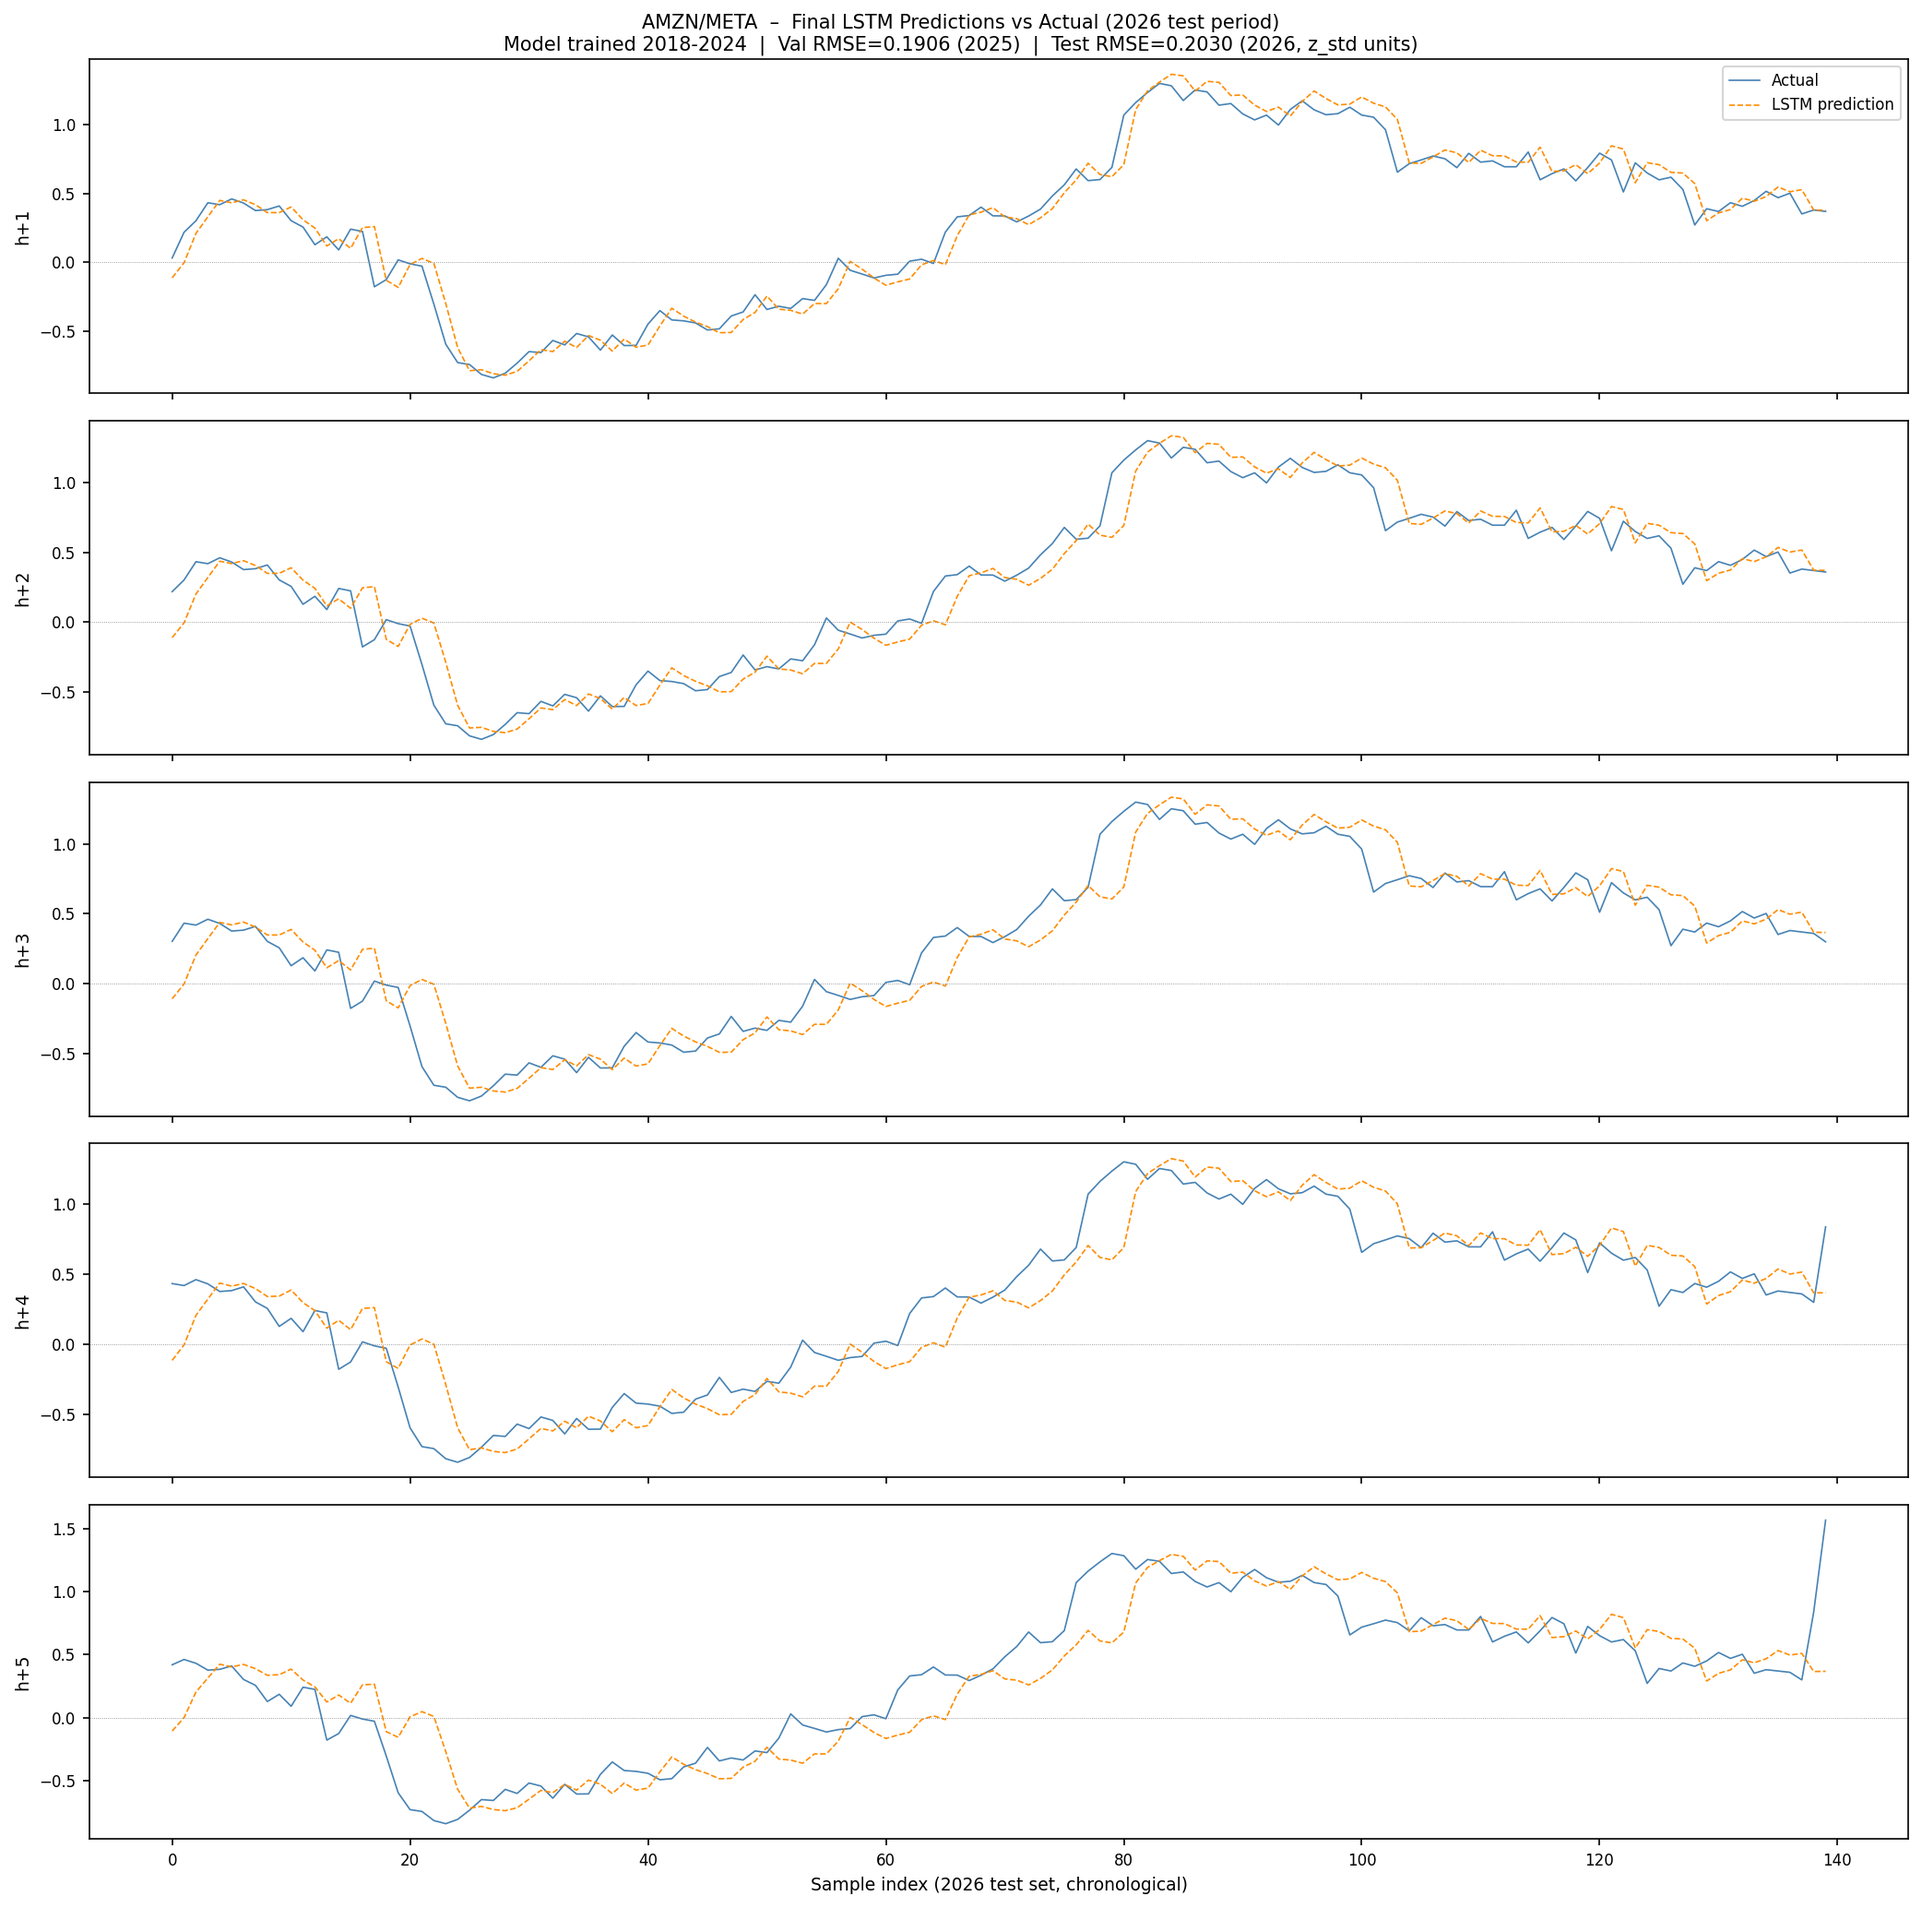
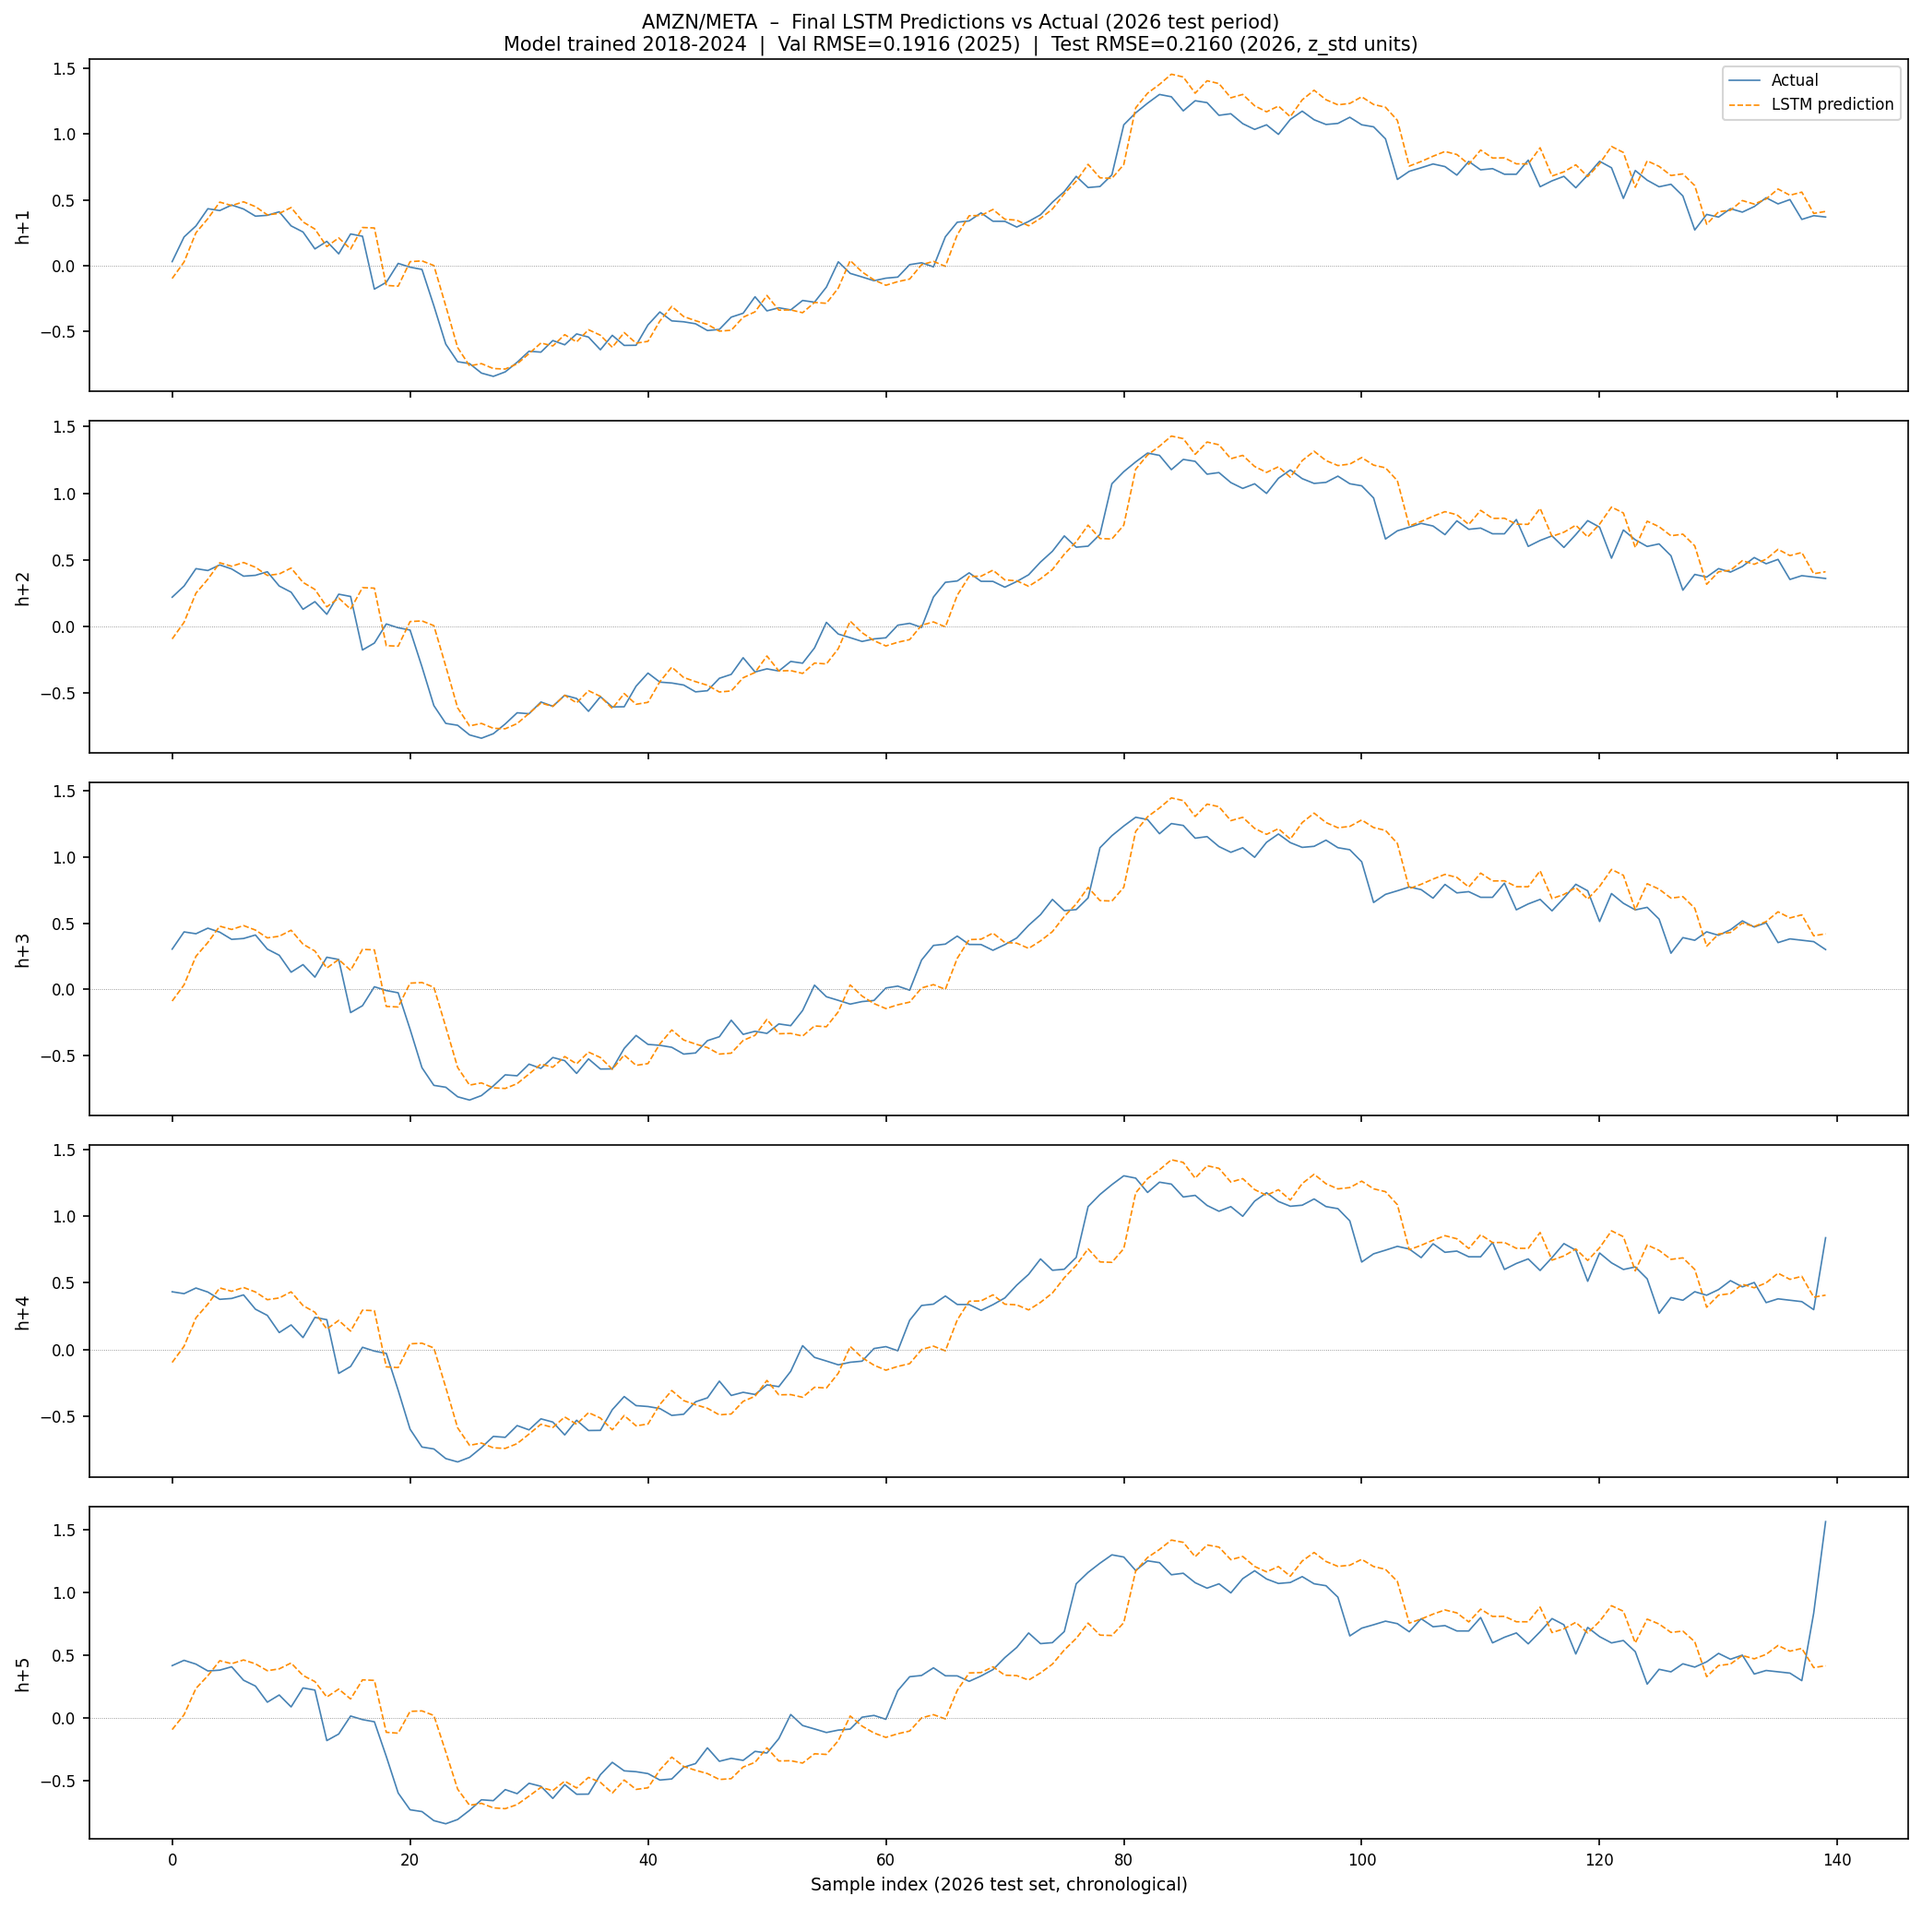
Pre-Task-3 checks: verify persistence units, add TF determinism
Check 2: X[:, -1, 0] and y are both z_std — same units, no fix needed.

Check 3: replace scattered tf.random.set_seed / np.random.seed calls with
tf.keras.utils.set_random_seed(SEED) (sets TF, NumPy, and Python random
together) and add tf.config.experimental.enable_op_determinism() at the
top of main() so all GPU/CPU ops are deterministic.

Verified: two consecutive runs produce bit-identical outputs.

Updated outputs regenerated with deterministic seed.

diff --git a/src/phase5_ml_spread.py b/src/phase5_ml_spread.py
@@ -98,8 +98,9 @@ from phase3_strategy import (
 # Reproducibility
 # ---------------------------------------------------------------------------
 SEED = 42
-np.random.seed(SEED)
-tf.random.set_seed(SEED)
+# tf.keras.utils.set_random_seed sets TF, NumPy, and Python random seeds.
+# enable_op_determinism() is called once in main() before any computation.
+tf.keras.utils.set_random_seed(SEED)
 
 # ---------------------------------------------------------------------------
 # LSTM chronological splits
@@ -604,8 +605,7 @@ def run_phase5_pair(dep, indep, tests_passed):
     print(f"\n  Step 5 – LSTM training "
           f"(units={LSTM_UNITS_1}/{LSTM_UNITS_2}, dropout={DROPOUT}, "
           f"lr={LEARNING_RATE}, patience={PATIENCE})...")
-    tf.random.set_seed(SEED)
-    np.random.seed(SEED)
+    tf.keras.utils.set_random_seed(SEED)
     model = build_lstm(n_features)
     es    = callbacks.EarlyStopping(monitor="val_loss", patience=PATIENCE,
                                      restore_best_weights=True, verbose=0)
@@ -926,8 +926,7 @@ def run_phase5_final_2026(dep, indep, tests_passed):
     # 5. Train LSTM
     # ------------------------------------------------------------------
     print(f"  Training final LSTM (patience={PATIENCE}) ...")
-    tf.random.set_seed(SEED)
-    np.random.seed(SEED)
+    tf.keras.utils.set_random_seed(SEED)
     model_f = build_lstm(n_features)
     es_f    = callbacks.EarlyStopping(monitor="val_loss", patience=PATIENCE,
                                         restore_best_weights=True, verbose=0)
@@ -1392,6 +1391,10 @@ def count_signals_lstm_gated(z_series, conv_dict,
 # ---------------------------------------------------------------------------
 
 def main():
+    # Force deterministic TF ops so reruns produce identical weights.
+    # Must be called before any TF computation.
+    tf.config.experimental.enable_op_determinism()
+
     print("=" * 65)
     print("PHASE 5 – MACHINE LEARNING FOR PREDICTING SPREAD")
     print("=" * 65)
